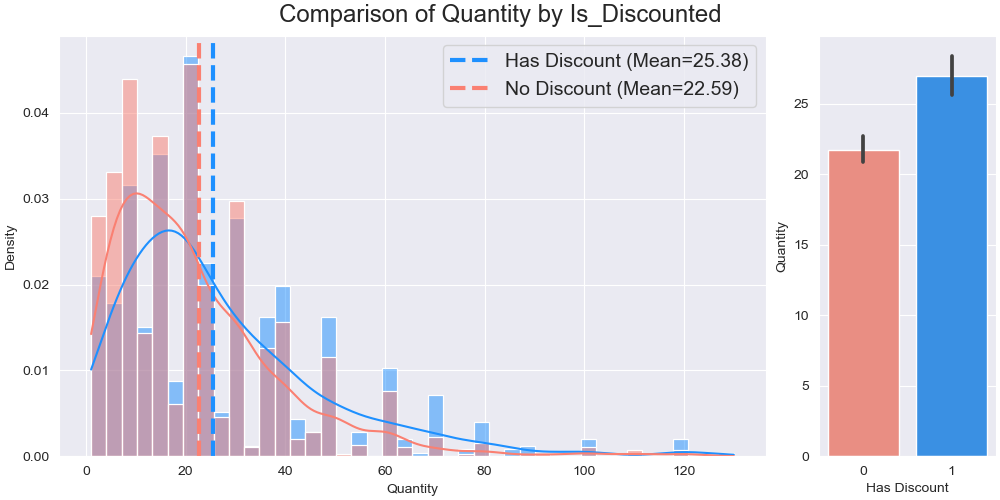
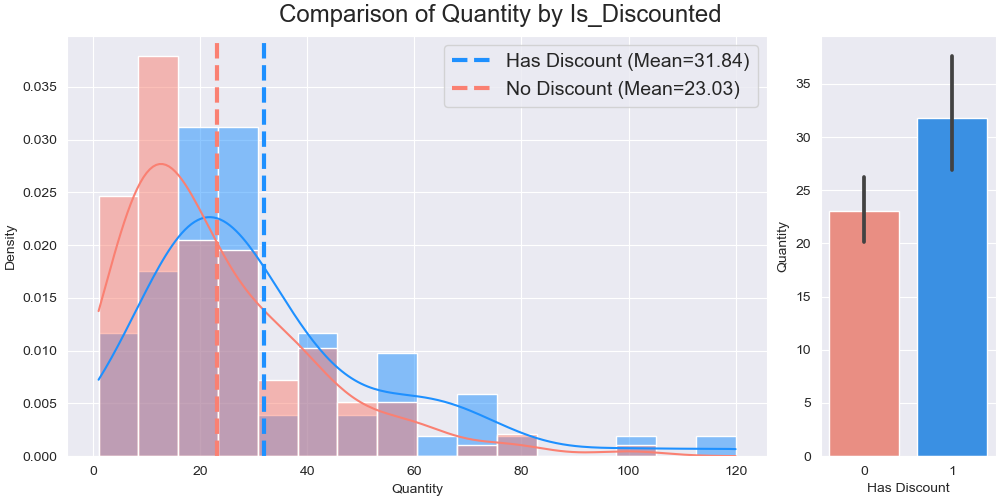
Updating files

diff --git a/README.md b/README.md
@@ -31,16 +31,13 @@ Alternate Hypothesis: **There is a significant difference in the sell quantities
 
 The Test resulted in this statistical outcome:
 
-* p-value=0.3651829204
-* Significant: False
+* p-value=0.0015422405
+* Significant: True
 
-Because the p-value is greater than the alpha value (0.05), then we can **Fail to Reject** the Null Hypothesis of ***There is no significant difference in the sell quantity between the products with or without discount.***
+Because the p-value is lower than the alpha value (0.05), then we **Reject** the Null Hypothesis of **There is no significant difference in the sell quantity between the products with or without discount.**, Then ***There is a significant difference in the sell quantities between products with and without discount.***
 
 ## Summary
 
-Despite we can have some intuitive certainty about the there would be significant difference in the quantity of product that are sold with a sort of discount and those that not, in this case, for this specific data (population), that difference is not significant according to the Test performed in this project.
+As we have some intuitive certainty about that there would be significant difference in the quantity of product that are sold with a sort of discount and those that not, in this case, for this specific data (population), that difference is significant according to the Test performed in this project.
 
-That is, products with discount are sold the same (statistically speaking) that those that don't have any discount.
-
-That may be clearly seen in the graph above despite the two means are different, both distribution are similar.
-
+That is, product with discount are sold more (statistically speaking) that those that don't have any discount.
